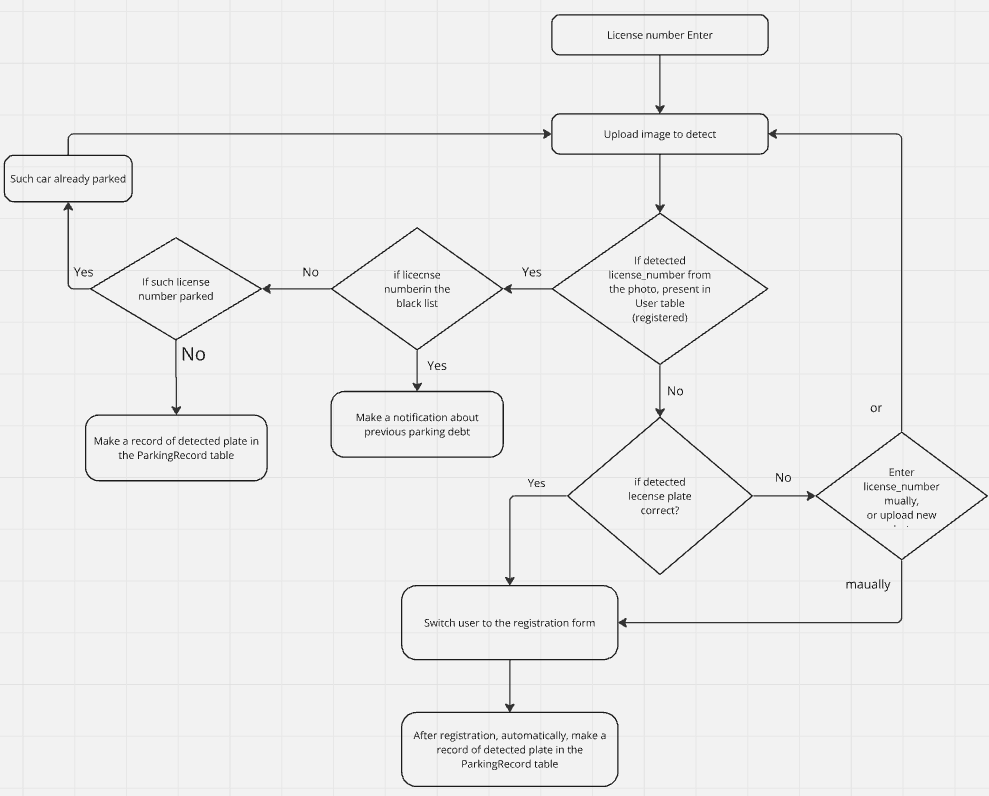
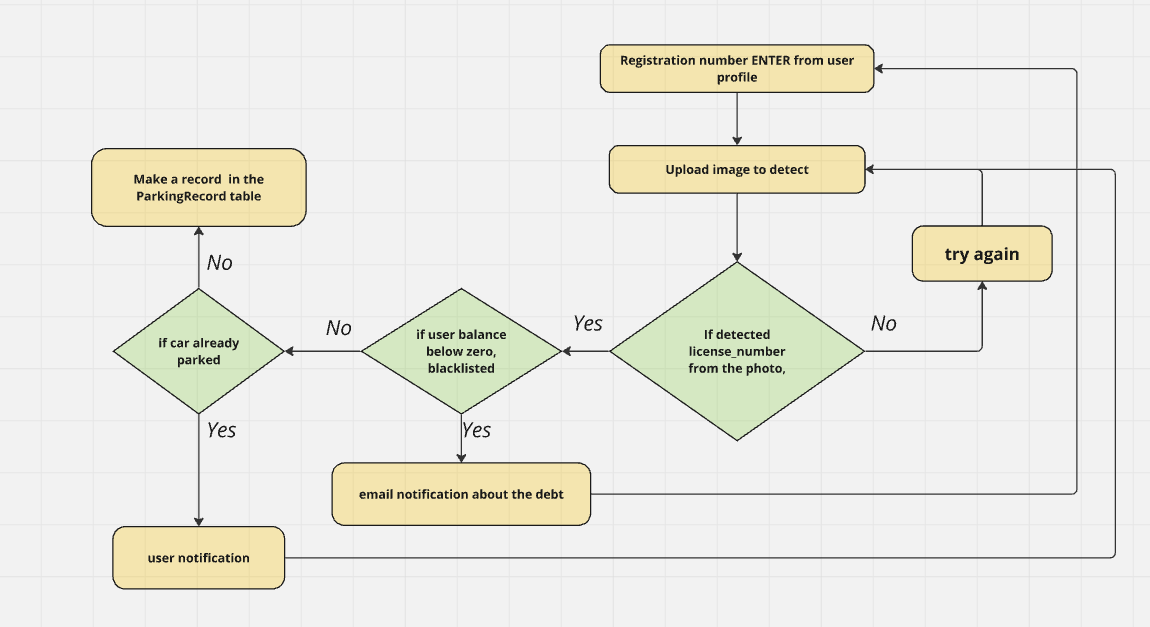
update project diagram and readmeMD

diff --git a/app_parking/app_home/static/about_project/about_index.css b/app_parking/app_home/static/about_project/about_index.css
@@ -681,7 +681,7 @@
  }
 
  .u-section-5 .u-image-1 {
-   width: 725px;
+   width: 1025px;
    height: 586px;
    box-shadow: -2px -2px 8px 0px rgba(128, 128, 128, 1);
    margin: 27px 0 0 auto;
@@ -812,7 +812,7 @@
  }
 
  .u-section-6 .u-image-1 {
-   height: 391px;
+   height: 500px;
    box-shadow: 2px 0 0 0 rgba(0, 0, 0, 0);
    transition-duration: 0.5s;
    margin: 24px 0 0;

diff --git a/README.md b/README.md
@@ -1,4 +1,149 @@
-# Web_world
-celery -A app_parking worker -l info -P eventlet
-celery -A app_parking beat -l info
-celery -A app_parking flower --broker=redis://localhost:6379/0 --address='127.0.0.1' -l info --pool=eventlet
+# Web_World: Park-Auto <a><img src="https://github.com/IVadymMarchenko/web_world/blob/main/app_parking/app_home/images/about_project/images/web_logo.jpg" width="40px" style="border: 10px solid orange;"></a>
+The final project of the course Python 19 Data Science, on the Web framework - Django.
+
+With this application, you will be able to automatically identify car registration numbers in images, track the length of parking for each unique car, and calculate accumulated parking costs.
+Parking is not just a place for your car, it is an important part of the city infrastructure that affects the comfort and safety of all road users. 
+Every time you choose a parking place, think about how your decision will affect others. Leave enough space for pedestrians, cyclists and other drivers. Proper parking is respect for others and a contribution to creating a safer and more convenient city.
+
+
+## Table of contents:
+   * [General info](#general-info)
+   * [Features](#features)
+   * [Technologies](#technologies)
+   * [Setup-Local](#setup-locally)
+   * [Setup-Docker](#docker-setup)
+
+## General info:
+**Web_World: Park-Auto** - it performs the following algorithm model:
+* **[paddleocr](https://github.com/PaddlePaddle/PaddleOCR/blob/main/README_en.md)** - aims to create multilingual, awesome, leading, and practical OCR tools that help users train better models and apply them into practice.
+* **[opencv](https://github.com/opencv/opencv?tab=readme-ov-file)** - open Source Computer Vision Library
+
+## Features:
+**Web_World: Park-Auto** - performs the following features:
+* **Authorization and Authentication:** - users can register, log in, and log out.
+* **Image Uploading:** - users can upload images for car number recognition via personal profile.
+* **User profile management:** - car auto history, recognized numbers, payment history.
+* **Admin profile management** - adjusted django admin profile, giving full project management possibility.
+* **Celery task scheduler** - task scheduler that performs auto email notifications, for blacklisted users.
+* **Model algorithm: [paddleocr](https://huggingface.co/spaces/itsyoboieltr/anpr/blob/main/ANPR.ipynb)** - recognition algorithm already trained and implemented.
+* **Docker container:** - the project can start-up via containerized Docker.
+
+## Technologies:
+Project is mainly based on:
+* 🐍 **Python** - backend programming language.
+* **HTML/CSS/JavaScript:** - frontend programming languages.
+* **Django** -  python web framework.
+* **Paddleocr / OpenCV** - vision image recognition models.
+* **PostgreSQL** - object-relational database management system.
+* **Celery** - automation task scheduler.
+* **Docker** - a software platform for rapid application development, testing and deployment.
+* **GitHub** - storing, tracking, and collaborating on project development/deployment.
+* **Googleapis** - a service by Google that provides a diverse collection of web fonts.
+* **Koyeb** - service for project deplotment.
+* **Trello** - a visual tool that allows your team to manage projects, workflows and any type of job.
+
+## Setup-Locally:
+1. The first thing to do is to clone the repository:
+
+```sh
+git clone -b main https://github.com/IVadymMarchenko/web_world.git
+```
+
+2. Activate virtual environment and install dependencies from the root folder where pyproject.toml exists:
+
+```sh
+poetry shell
+```
+```sh
+poetry install --no-root
+```
+
+3. Once `poetry` has finished downloading the dependencies:
+
+    * Create .env file in project root and fill in the file like this example:
+```sh
+DJANGO_SECRET_KEY=*your secret key*
+
+POSTGRES_DB_NAME=*your postgre db name*
+POSTGRES_USER=postgres
+POSTGRES_PASSWORD=w*your postgre db password*
+POSTGRES_PORT=5432
+POSTGRES_DOMAIN=*your postgre domain*
+
+EMAIL_HOST=*your main smtp*
+EMAIL_PORT=*your main smtp port*
+EMAIL_HOST_USER=*your email address*
+EMAIL_HOST_PASSWORD=*your email password*
+
+CLOUD_NAME=*your cloudidnary name*
+API_KEY=*your cloudinary api key*
+API_SECRET=*your api secret phrase*
+
+REDIS_HOST0=*your redis host for celery*/0
+REDIS_HOST1=*your redis host for celery*/1
+```
+
+4. Then run docker container nad make migrations for db:
+    * Run postgre docker container.
+    * Run redis docker container.
+        - From any terminal window:
+          
+For postgre:
+```sh
+docker run --name postg_data_science -d -h localhost -p 5432:5432 -u postgres -e POSTGRES_PASSWORD=*your password from env file POSTGRES_PASSWORD* postgres
+```
+
+For redis:
+```sh
+docker run --name my-redis -d -p 6379:6379 redis
+```
+
+From root projectfolder /app_parking/ make migrations:
+```sh
+(env)$> cd app_parking
+(env)$app_parking> python manage.py makemigrations
+(env)$app_parking> python manage.py migrate
+```
+
+5. Before server start-up run celery worker and beat commands in separate terminals:
+    * Run celery worker commdand.
+    * Run celery beat command.
+    * Run web server.
+        - From project folder /app_parking/:
+
+```sh
+(env)$> cd app_parking
+```
+ 
+First terminal window - for celery worker commdand:
+```sh
+(env)$app_parking> celery -A app_parking worker -l info -P eventlet
+```
+
+Second terminal window - for celery beat commdand:
+```sh
+(env)$app_parking> celery -A app_parking beat -l info
+```
+
+Third terminal window - for web server start-up:
+```sh
+(env)$app_parking> py manage.py runserver  
+```
+
+* And navigate to `http://127.0.0.1:8000/.
+
+## Docker-setup
+From the root folder:
+1. Build containers via `docker-compose`:
+
+    ```sh
+    docker-compose build
+    ```
+
+2. Start containers:
+
+    ```sh
+    docker-compose up
+    ```
+
+3. Open `http://localhost:8000` in a browser. You should see the main page.
